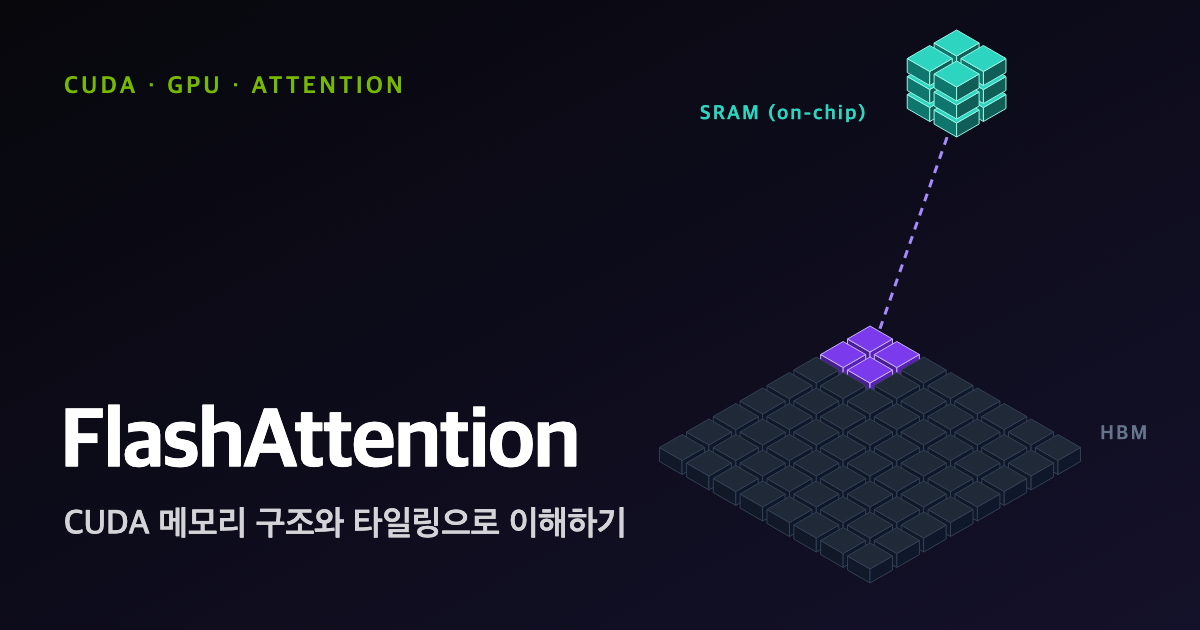
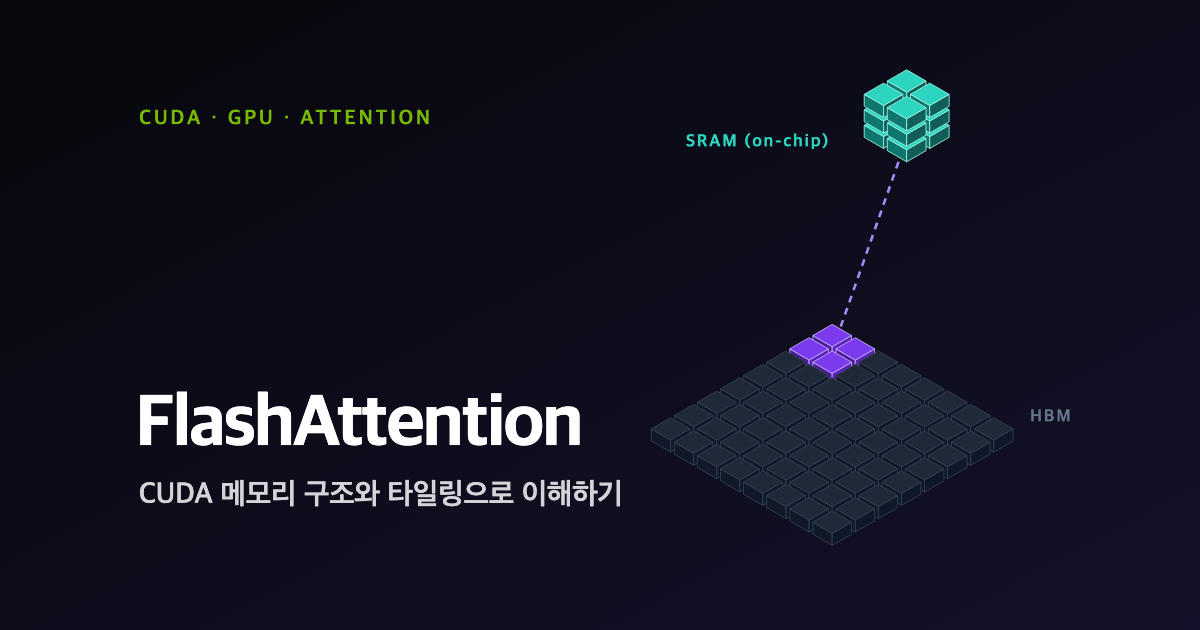
docs: add mqa thumbnail and add safe margins to flashattention thumbnail

diff --git a/_posts/2026-09-16-mqa-multi-query-attention.md b/_posts/2026-09-16-mqa-multi-query-attention.md
@@ -6,8 +6,8 @@ tags: [mqa, gqa, mla, attention, kv-cache, llm, inference]
 description: K/V head를 하나로 공유해 디코딩 시 KV cache 읽기 부담을 줄인 Multi-Query Attention(2019)과, 이후 GQA·MLA로 이어진 흐름을 정리했습니다.
 math: true
 image:
-  path: /assets/img/posts/mqa/04_mha_vs_mqa.png
-  alt: MHA는 head마다 K/V를 따로 두고, MQA는 모든 head가 K/V 하나를 공유하는 구조 비교
+  path: /assets/img/posts/mqa/00_thumbnail.png
+  alt: Query head 8개가 하나의 공유 K/V를 함께 바라보는 Multi-Query Attention 구조를 표현한 입체 그래픽
 ---
 
 > **논문**: Noam Shazeer (Google), [*Fast Transformer Decoding: One Write-Head is All You Need*](https://arxiv.org/abs/1911.02150), 2019
